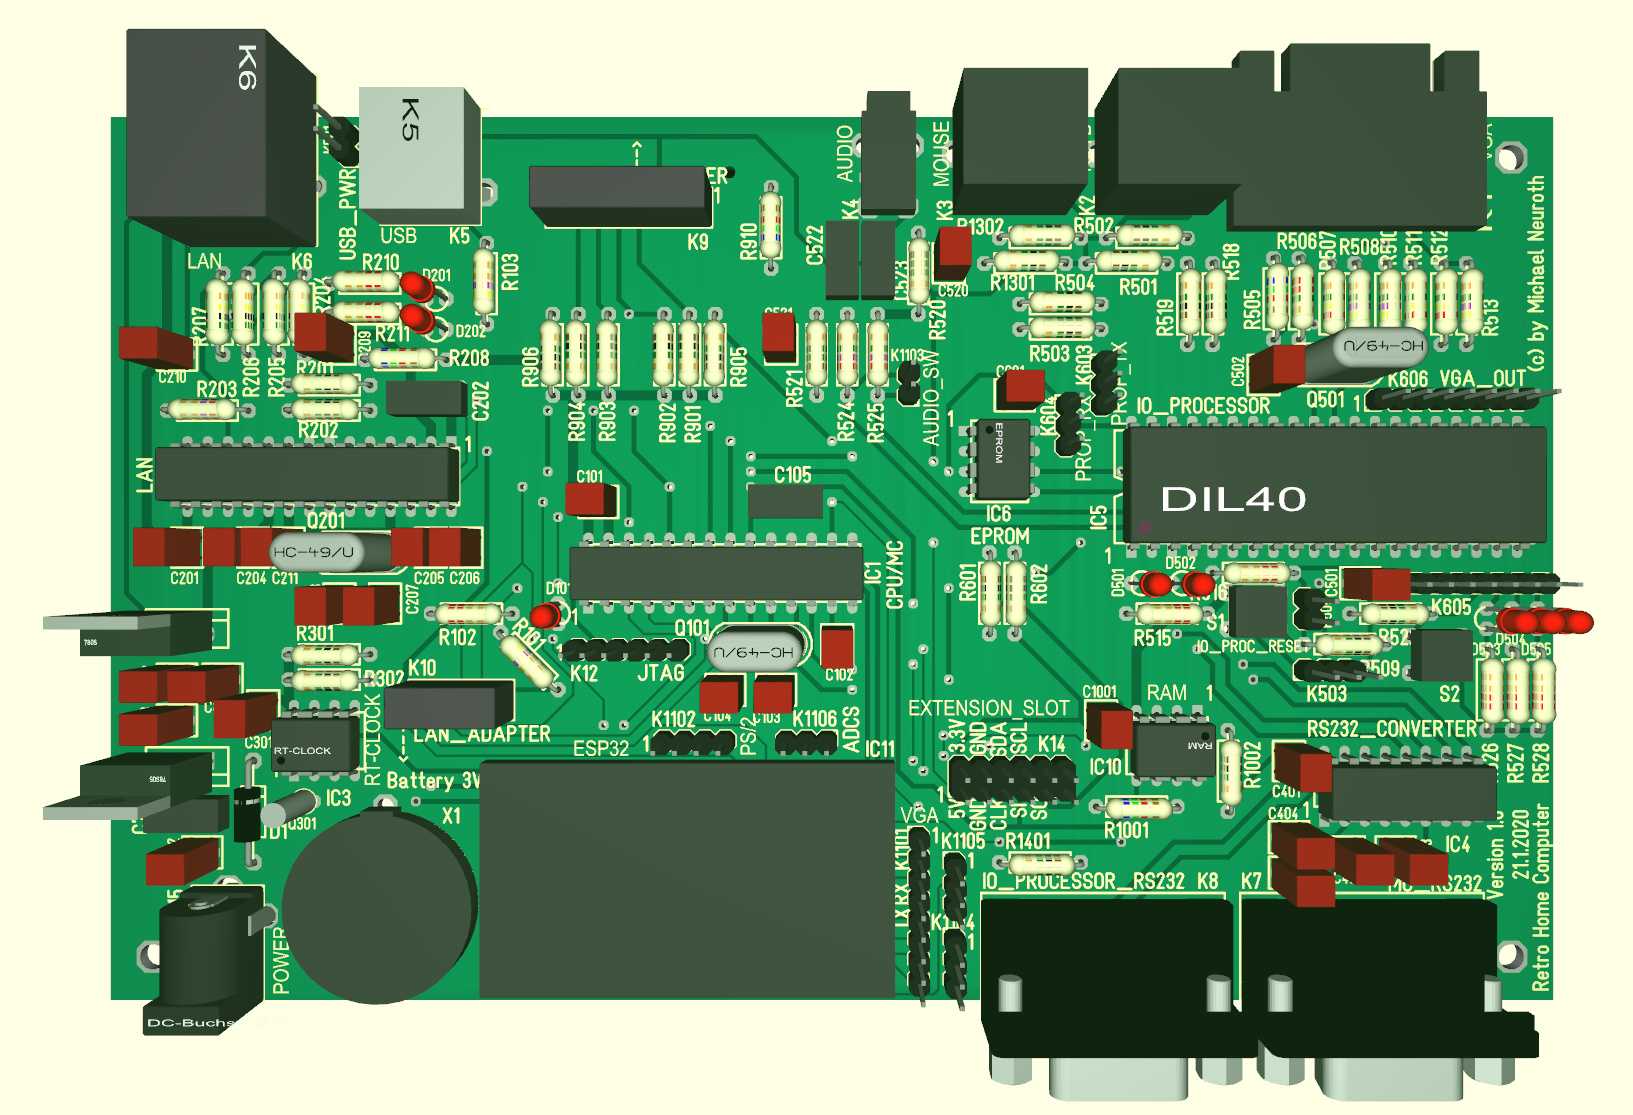
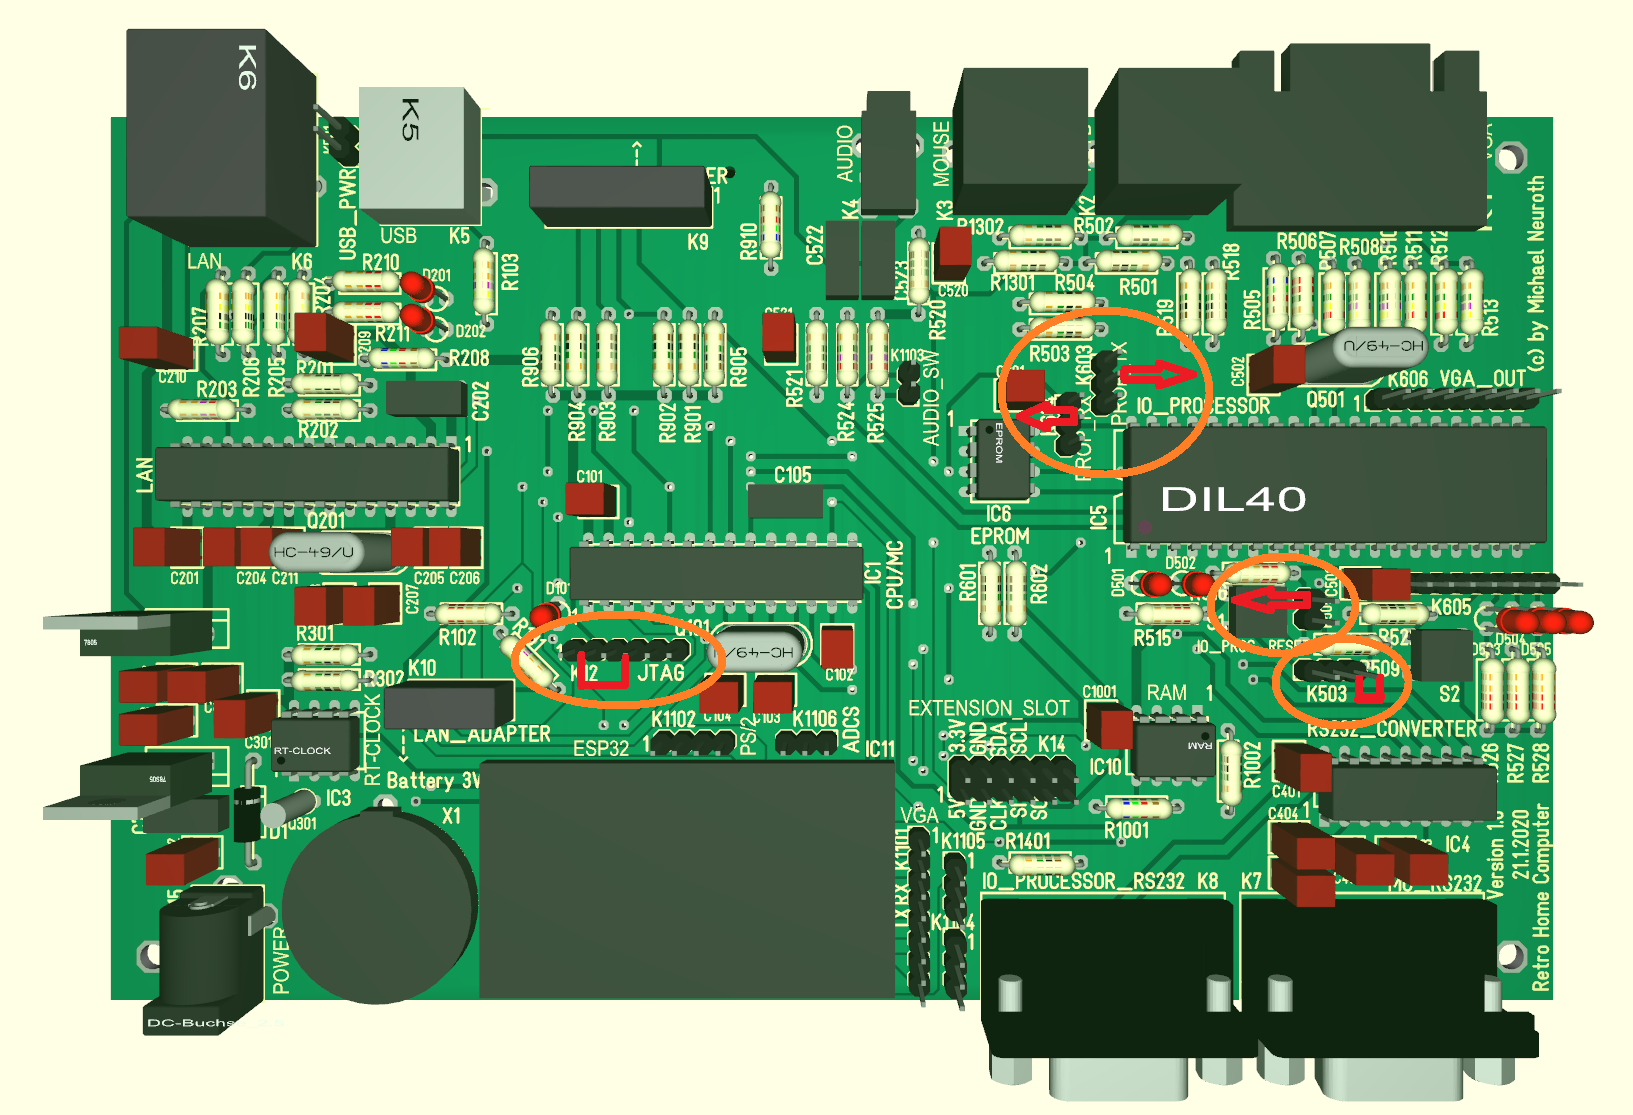
Update documation for programming mode

diff --git a/Setup/README.md b/Setup/README.md
@@ -3,16 +3,20 @@
 Normal operation mode
 ---------------------
 
-- Disable the programming mode of the boot loader for the MCU (IC1) connect Pin 3 and Pin 4 of pin bar K15 (see image for normal operation mode).
-- Connect serial communication between IO Processor and MCU (IC1) by connecting Pin 1 and Pin 2 of pin bar K603 and K604 (see image for normal operation mode).
-- Disable programming mode of the IO Processor (IC5) by connection Pin 1 and Pin 2 of pin bar K503.
+- Disable the programming mode of the boot loader for the MCU (IC1) by connecing Pin 3 and Pin 4 of pin bar K15 (Jumper may be removed after booting of the PicoHomeCompuer to enable support for ETHERNET_NOT_INTERRUPT line).
+- Connect serial communication between IO Processor and MCU (IC1) by connecting Pin 1 and Pin 2 of pin bars K603 and K604.
+- Disable programming mode of the IO Processor (IC5) by connecting Pin 1 and Pin 2 of pin bar K503.
 
 <img src="ConfigurationForRunning.png" alt="Normal Operation" >
 
 Programming operation mode
 --------------------------
 
-- Enable the programming modus of the boot loader for the MCU (IC1) connect Pin 2 and Pin 4 of pin bar K15 (see image for programming operation mode).
+- Enable the programming modus of the boot loader for the MCU (IC1) by connecing Pin 2 and Pin 4 of pin bar K15.
 - Connect USB on K5 to Host Computer to flash the MCU (IC1) with Arduino Studio
+
+- Enable programming mode of the IO Processor (IC5) by connecting Pin 3 and Pin 2 of pin bar K503.
+- Connect USB RS232 Adapter FTDI232 to serial port of IO PRocessor (IC5) on of Pin 2 of pin bar K603 (TX) and Pin 2 of pin bar K604 (RX) and Pin 2 (RESn) of pin bar K505 (DTR).
+- Connect USB RS232 Adapter FTDI232 to Host Computer to flash the IO Processor (IC5) with Propeller IDE.
 
 <img src="ConfigurationForProgramming.png" alt="Programming Operation" >
